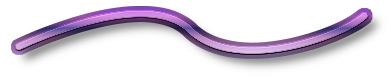
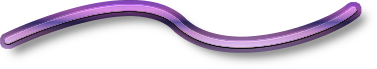
Changing the divider

Changed region(s): [[0.0, 0.0, 0.992, 0.8116]]

diff --git a/www/carmen-poems.css b/www/carmen-poems.css
@@ -14,8 +14,8 @@ div.index a {
 	display: block;
 	background: url('images/divider.png');
 	content: " ";
-	height: 74px;
-	width: 384px;
+	height: 69px;
+	width: 377px;
 	margin-top: 32px;
 }
 .poem-number {
